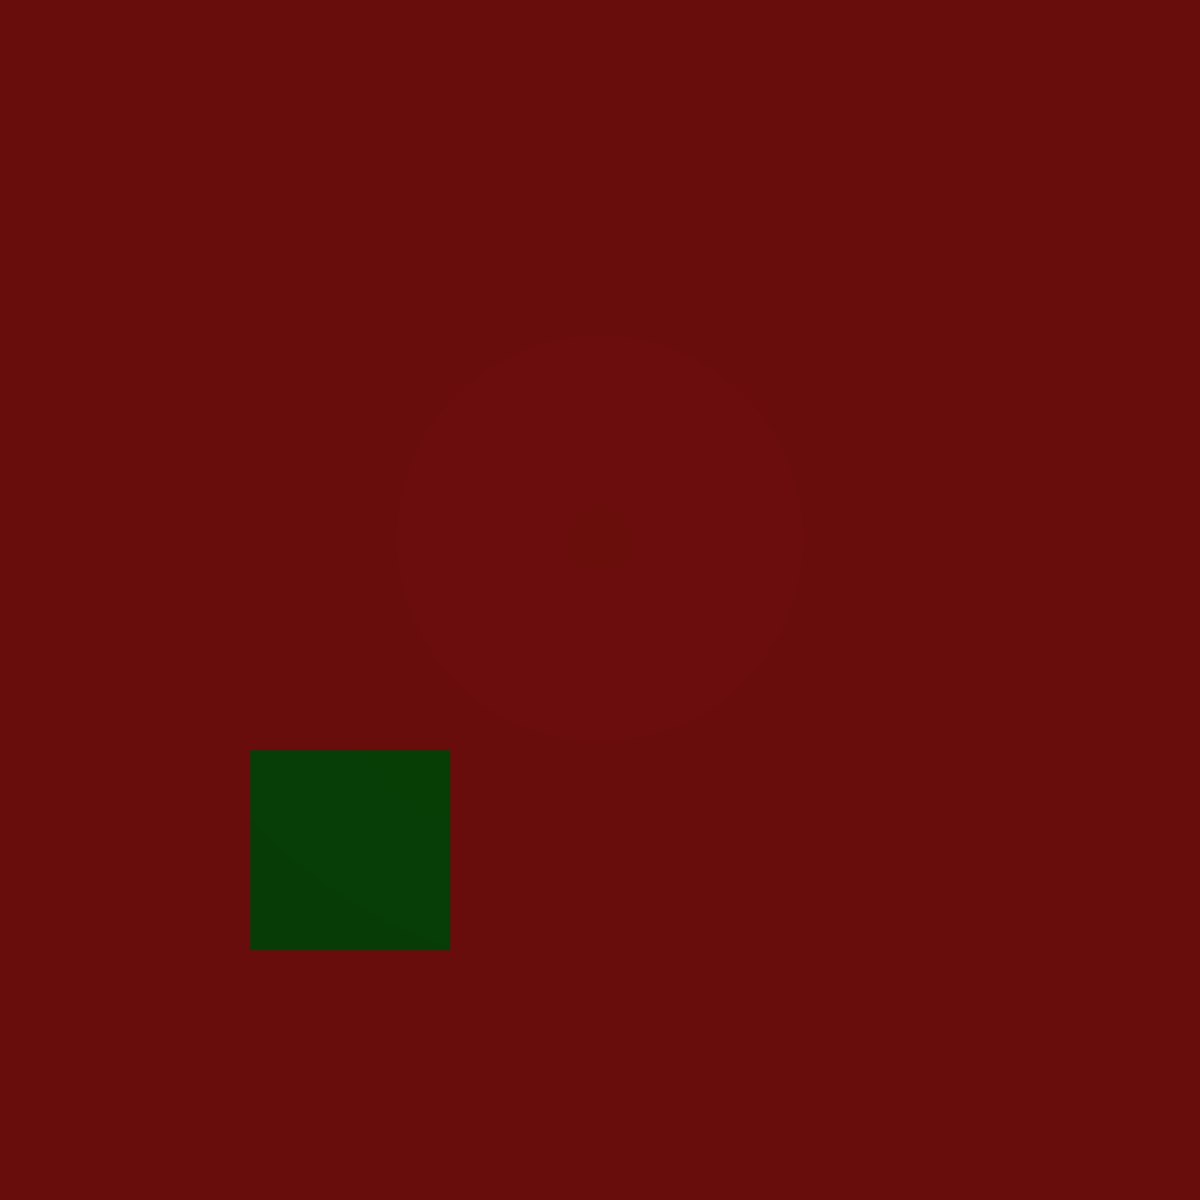
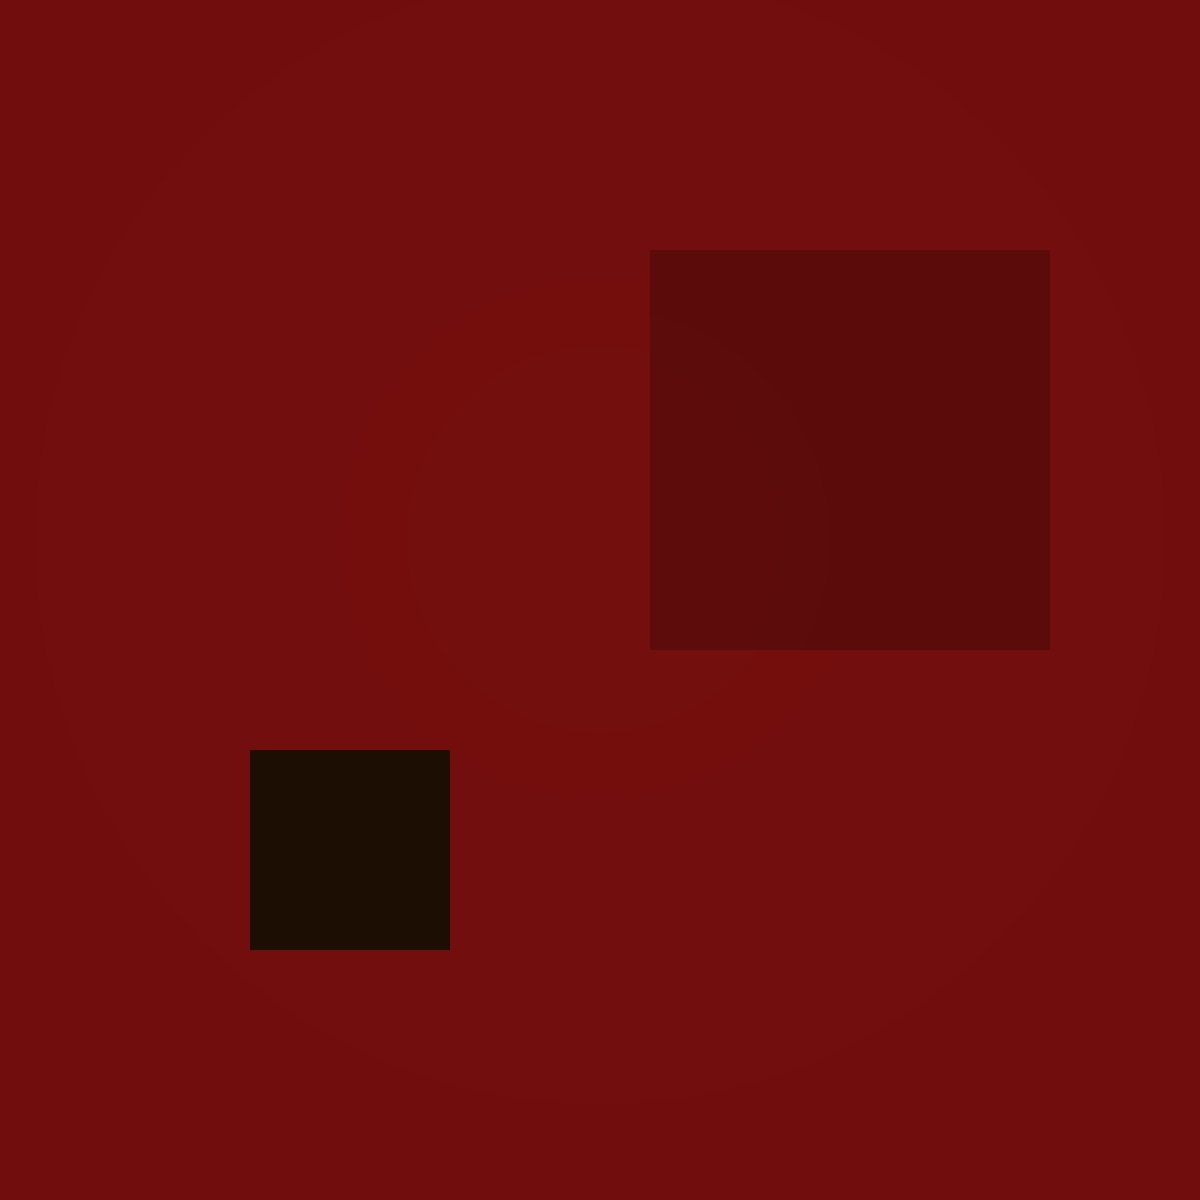
no more error

Changed region(s): [[0.185, 0.6167, 0.4008, 0.8017]]

diff --git a/Src/main.cpp b/Src/main.cpp
@@ -44,7 +44,7 @@ int main(int argc, char* argv [])
         };
 
         Material Mc1;
-        Mc1.diffuse = Color::colorFromFloat(1, 1, 0);
+        Mc1.diffuse = Color::colorFromFloat(0.9, 0.9, 0.9);
         Mc1.type = MaterialType::REFLECTIVE;
 
         Material Mc2 {
@@ -90,9 +90,11 @@ int main(int argc, char* argv [])
         };
 
         MultiMesh Obj = MultiMesh("cube", &Mc4);
-        MultiMesh Obj2 = MultiMesh(Obj, &Mc2);
+        MultiMesh Obj2 = MultiMesh(Obj, &Mc1);
         Obj.setScale(100);
         Obj.setTranslate(Vec3f{-250, -250, 1500});
+        Obj2.setScale(200);
+        Obj2.setTranslate(Vec3f{250, 150, 1500});
 //        Obj.setScale(600);
 //        Obj.setTranslate(Vec3f{0, 0, 2500});
 
@@ -105,7 +107,7 @@ int main(int argc, char* argv [])
         
         orthoImg->writeJPEG("ofpicture/cropPicWithCirclesOrtho.jpg", 100);
         
-        std::cout << "Time difference = " << std::chrono::duration_cast<std::chrono::milliseconds>(end - begin).count() << "[ms] for ortho : " << Primitive::rays << " rays" << std::endl;
+        std::cout << "Time difference = " << std::chrono::duration_cast<std::chrono::milliseconds>(end - begin).count() << "[ms] for ortho : " << Primitive::rays.load() << " rays" << std::endl;
         
         //change and draw in perspective
         cam.viewType = ViewType::PERSP;
@@ -118,7 +120,7 @@ int main(int argc, char* argv [])
         
         perspImg->writeJPEG("ofpicture/cropPicWithCirclesPersp.jpg", 100);
         
-        std::cout << "Time difference = " << std::chrono::duration_cast<std::chrono::milliseconds>(end - begin).count() << "[ms] for persp : " << Primitive::rays << " rays" << std::endl;
+        std::cout << "Time difference = " << std::chrono::duration_cast<std::chrono::milliseconds>(end - begin).count() << "[ms] for persp : " << Primitive::rays.load() << " rays" << std::endl;
         
         delete img;
         delete orthoImg;

diff --git a/Src/Primitive.cpp b/Src/Primitive.cpp
@@ -6,7 +6,7 @@
 std::vector<Primitive*> Primitive::objectList = std::vector<Primitive*>();
 std::vector<Light*> Light::lightList = std::vector<Light*>();
 Vec3f Primitive::defaultColor = Vec3f{0.2f, 0.2f, 0.9f};
-std::atomic<uint64_t> Primitive::rays = 0;
+std::atomic<uint64_t> Primitive::rays{0};
 thread_local uint64_t raysLocal = 0;
 
 //maybe too costly in time
@@ -180,6 +180,8 @@ Vec3f Primitive::diffuseCalculation(Vec3f fragPos, Vec3f normal, Vec3f camPos, d
                 };
                 Hit hit;
                 temp = objectList[j]->raytrace(lightRay, hit);
+                Primitive* test = objectList[j];
+                Material* matTest = test->mat;
                 if (temp != -1 && objectList[j]->multiMesh) {
                     const std::vector<Primitive*> triangleMeshes = objectList[j]->getMeshes();
                     for (size_t k = 0; k < triangleMeshes.size(); k ++) {
@@ -201,7 +203,8 @@ Vec3f Primitive::diffuseCalculation(Vec3f fragPos, Vec3f normal, Vec3f camPos, d
                     }
                 }
                 else if (temp != -1 && (temp - distance) < offset) {
-                    if (hit.object->mat->type == MaterialType::TRANSPARENT) {
+                    if (hit.object->mat->type == MaterialType::TRANSPARENT)
+                    {
                         shadowAlpha += hit.object->mat->alpha;
                         if (shadowAlpha >= 1) {
                             shadowAlpha = 1;
@@ -293,7 +296,7 @@ Vec3f Primitive::phongColor(Vec3f fragPos, Vec3f normal, Vec3f lightColor, Vec3f
     return  diffuse + specular;
 }
 
-const std::vector<Primitive*>& Primitive::getMeshes() {
+const std::vector<Primitive*>& Primitive::getMeshes() const {
     static const std::vector<Primitive*> empty;
     return empty;
 }

diff --git a/Src/MultiMesh.cpp b/Src/MultiMesh.cpp
@@ -1,10 +1,12 @@
 #define TINYOBJLOADER_IMPLEMENTATION
 #include "MultiMesh.hpp"
 #include "tiny_obj_loader.h"
+#include <memory>
 
-MultiMesh::MultiMesh(MultiMesh& mm, Material* mat) : Primitive(Vec3f{0,0,0}, nullptr, false), min(mm.min), max(mm.max) {
+MultiMesh::MultiMesh(const MultiMesh& mm, Material* mat) : Primitive(Vec3f{0,0,0}, nullptr, false), min(mm.min), max(mm.max) {
+    multiMesh = true;
     std::vector<Primitive*> meshes = mm.getMeshes();
-    for (int i = 0; i < meshes.size(); i++) {
+    for (size_t i = 0; i < meshes.size(); i++) {
         const Triangle* mesh = dynamic_cast<Triangle*>(meshes[i]);
         Triangle* newMesh = new Triangle(mesh, mat, true);
         addTriangleMesh(newMesh);
@@ -72,7 +74,7 @@ bool MultiMesh::intersection(Vec3f rayPos, Vec3f dir) const {
 }
 
 void MultiMesh::setScale(float newScale) {
-    for (int i = 0; i < meshes.size(); i++) {
+    for (size_t i = 0; i < meshes.size(); i++) {
         meshes[i]->setScale(newScale);
     }
     min = min * newScale;
@@ -80,7 +82,7 @@ void MultiMesh::setScale(float newScale) {
 }
 
 void MultiMesh::setTranslate(Vec3f newTranslate) {
-    for (int i = 0; i < meshes.size(); i++) {
+    for (size_t i = 0; i < meshes.size(); i++) {
         meshes[i]->setTranslate(newTranslate);
     }
     min = min + newTranslate;

diff --git a/Src/Primitive.hpp b/Src/Primitive.hpp
@@ -2,6 +2,7 @@
 #define _PRIMITIVE_HPP_
 
 #include <vector>
+#include <atomic>
 #include "ColorImage.hpp"
 #include "Misc.hpp"
 
@@ -25,7 +26,7 @@ class Primitive {
         static ColorImage* draw(const ColorImage& img, Camera cam, int samples = 4);
         virtual void setScale(float newScale) = 0;
         virtual void setTranslate(Vec3f newTranslate) = 0;
-        virtual const std::vector<Primitive*>& getMeshes(); //used for multiMesh
+        virtual const std::vector<Primitive*>& getMeshes() const; //used for multiMesh
     
         static std::atomic<uint64_t> rays;
 
@@ -45,8 +46,8 @@ class Primitive {
         Material* mat;
         bool multiMesh = false;
 
-        const float offset = 0.1f;
-        const Vec3f globalAmbientLight = Vec3f(0.05f, 0.05f, 0.05f);
+        const float offset = 0.01f;
+        const Vec3f globalAmbientLight = Vec3f{0.05f, 0.05f, 0.05f};
 };
 
 #endif //_PRIMITIVE_HPP_

diff --git a/Src/Triangle.cpp b/Src/Triangle.cpp
@@ -1,6 +1,6 @@
 #include "Triangle.hpp"
 
-Triangle::Triangle(const Triangle* t, Material* mat, bool isPartOfObj) : Primitive(t->pos, mat, isPartOfObj), vertex0(t->vertex0), vertex1(t->vertex1), vertex2(t->vertex2), defaultNormal(t->defaultNormal), normalByVertex(t->normalByVertex) {}
+Triangle::Triangle(const Triangle* t, Material* mat, bool isPartOfObj) : Primitive(t->pos, mat, isPartOfObj), defaultNormal(t->defaultNormal), vertex0(t->vertex0), vertex1(t->vertex1), vertex2(t->vertex2), normalByVertex(t->normalByVertex) {}
 
 Triangle::Triangle(Vec3f vert0, Vec3f vert1, Vec3f vert2, Material* mat, bool isPartOfObj) : Primitive(Vec3f{0,0,0}, mat, isPartOfObj), vertex0(vert0), vertex1(vert1), vertex2(vert2) {
     pos = Vec3f{(vert0.x + vert1.x + vert2.x) / 3.0f, (vert0.y + vert1.y + vert2.y) / 3.0f, (vert0.z + vert1.z + vert2.z) / 3.0f};

diff --git a/Src/MultiMesh.hpp b/Src/MultiMesh.hpp
@@ -5,12 +5,12 @@
 
 class MultiMesh : public Primitive {
     public:
-        MultiMesh(MultiMesh& mm, Material* mat);
+        MultiMesh(const MultiMesh& mm, Material* mat);
         MultiMesh(std::string objFileName, Material* mat);
         void addTriangleMesh(Triangle* triangle);
         void setScale(float newScale) override;
         void setTranslate(Vec3f newTranslate) override;
-        const std::vector<Primitive*>& getMeshes() override { return meshes;};
+        const std::vector<Primitive*>& getMeshes() const override { return meshes;};
 
     private:
         void loadObjtriangles(std::string objFileName, Material* mat);

diff --git a/Src/Utils.hpp b/Src/Utils.hpp
@@ -66,6 +66,12 @@ struct Vec3 {
         return *this - v * 2 * this->dot(v);
     };
 
+ /*   template <typename T>
+Vec3<T> Vec3<T>::reflect(const Vec3<T>& I) const {
+    // *this = normal, I = incident ray
+    return I - (*this) * 2 * I.dot(*this);
+}/*
+
     Vec3<t> refract(const Vec3<t> normal, double etaiOverEtao) const {
         float cosTheta = std::fmin((-*this).dot(normal), 1.0f);
         Vec3<t> rOutPerp = ((*this) + normal * cosTheta) * (float)etaiOverEtao;
